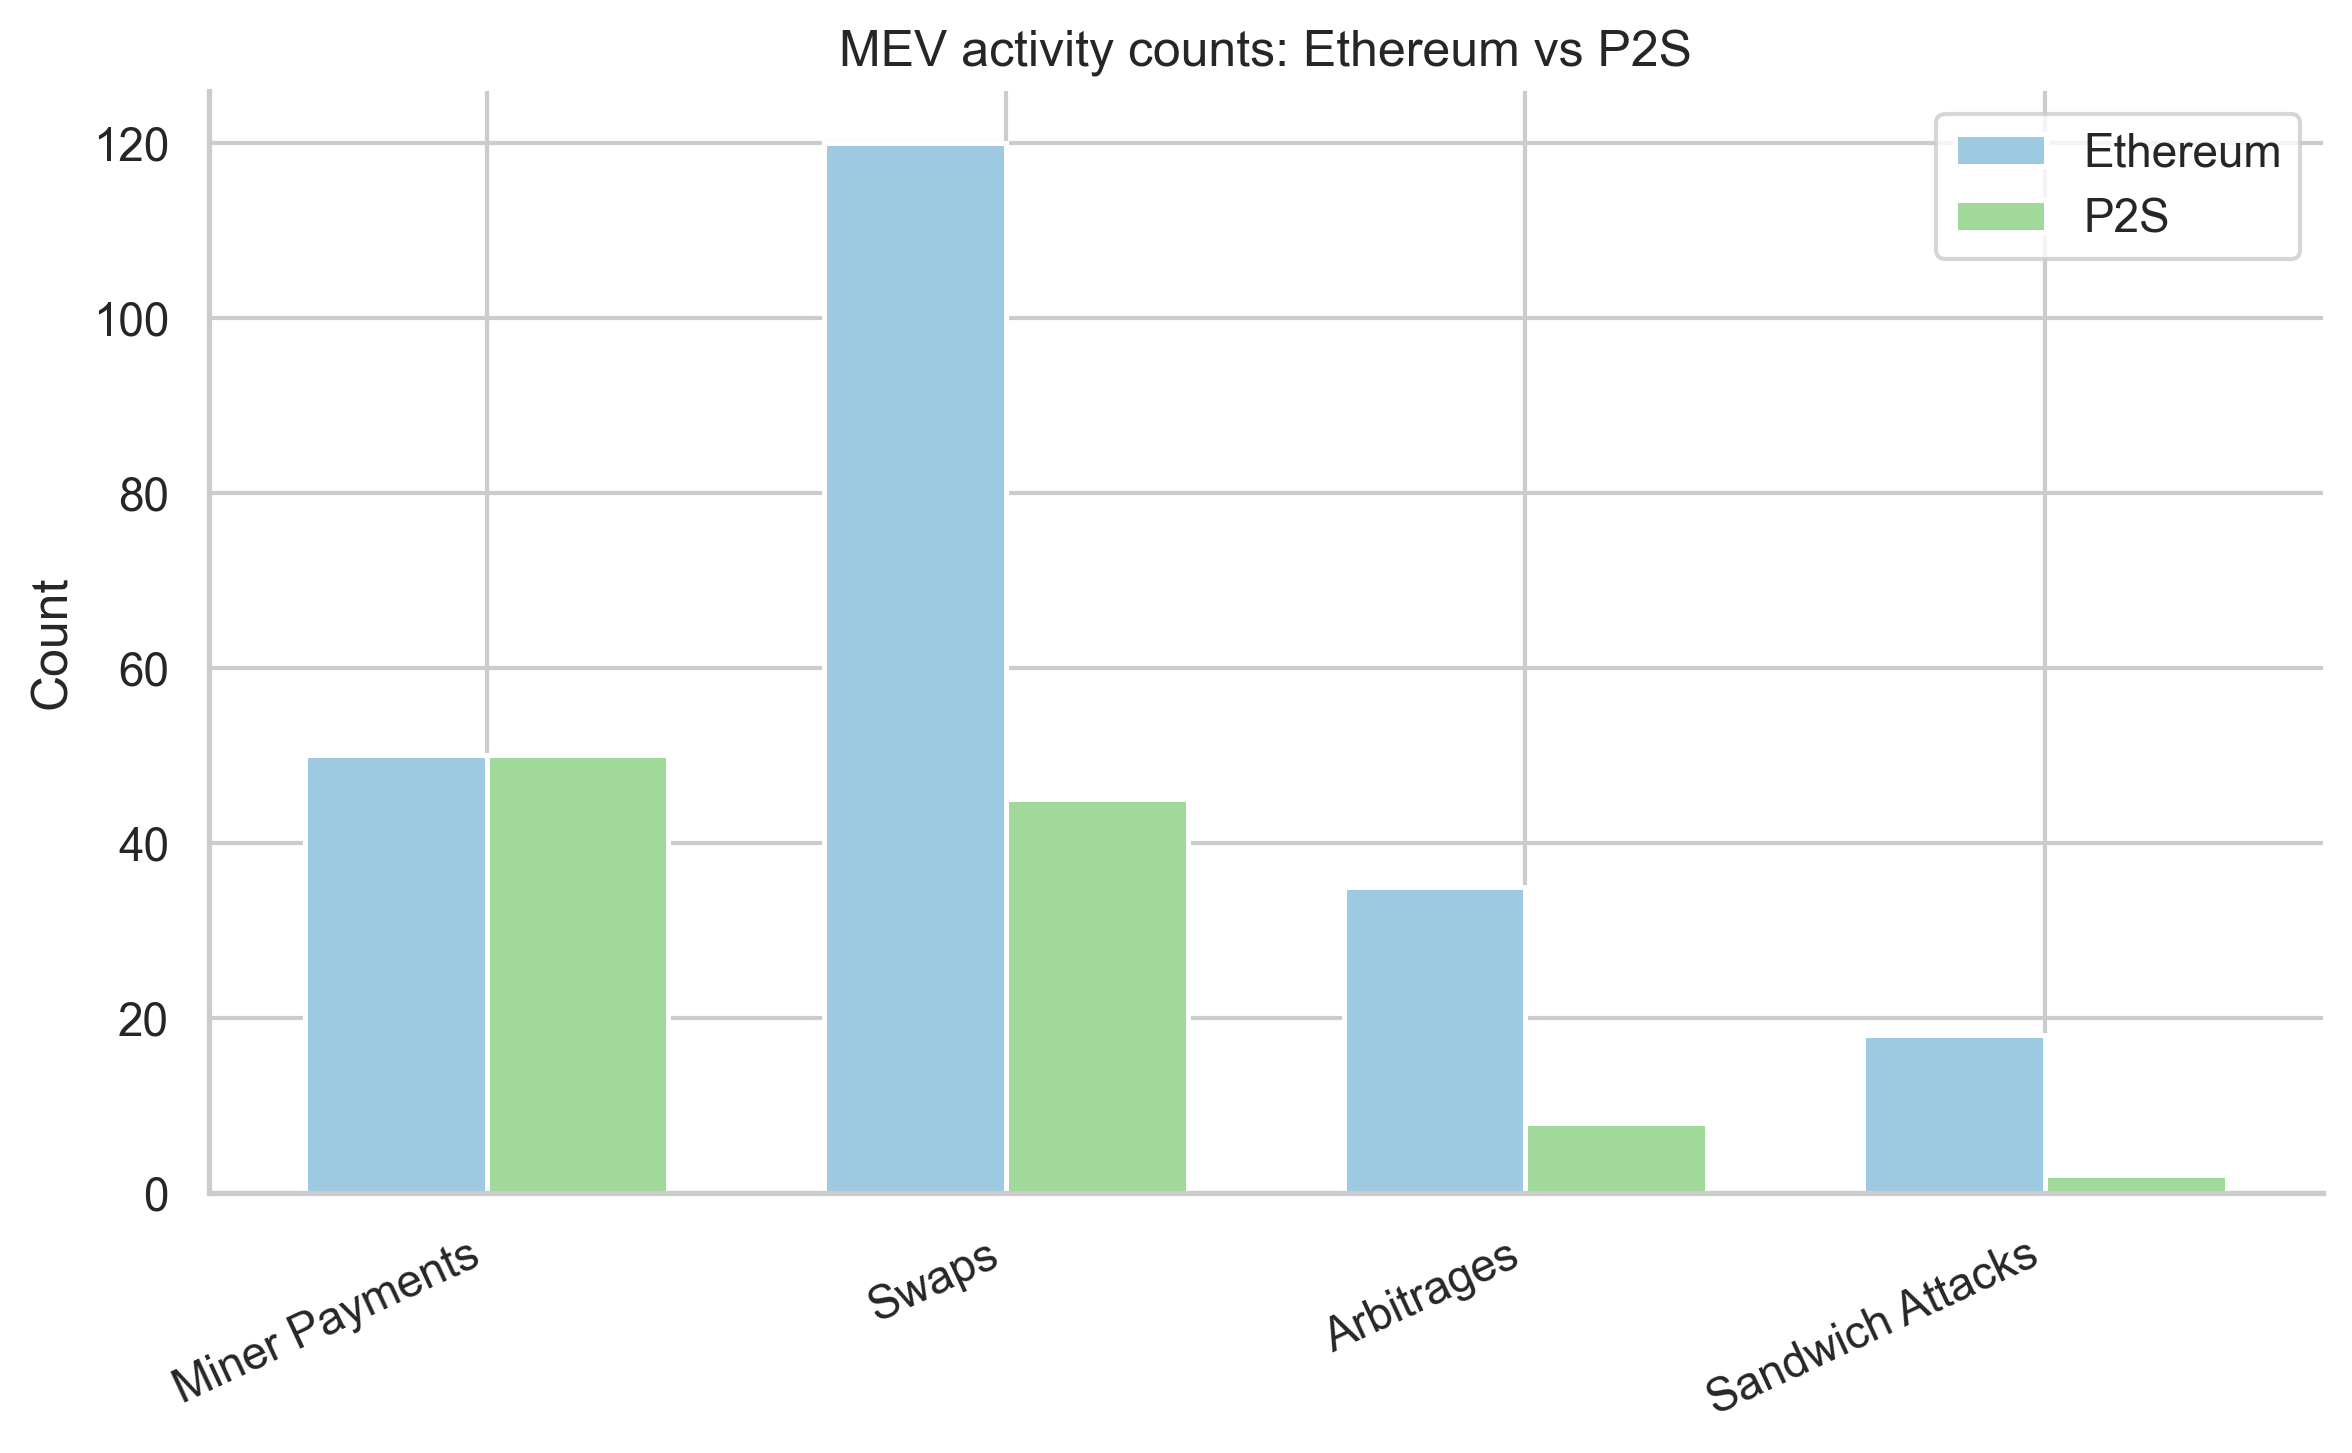
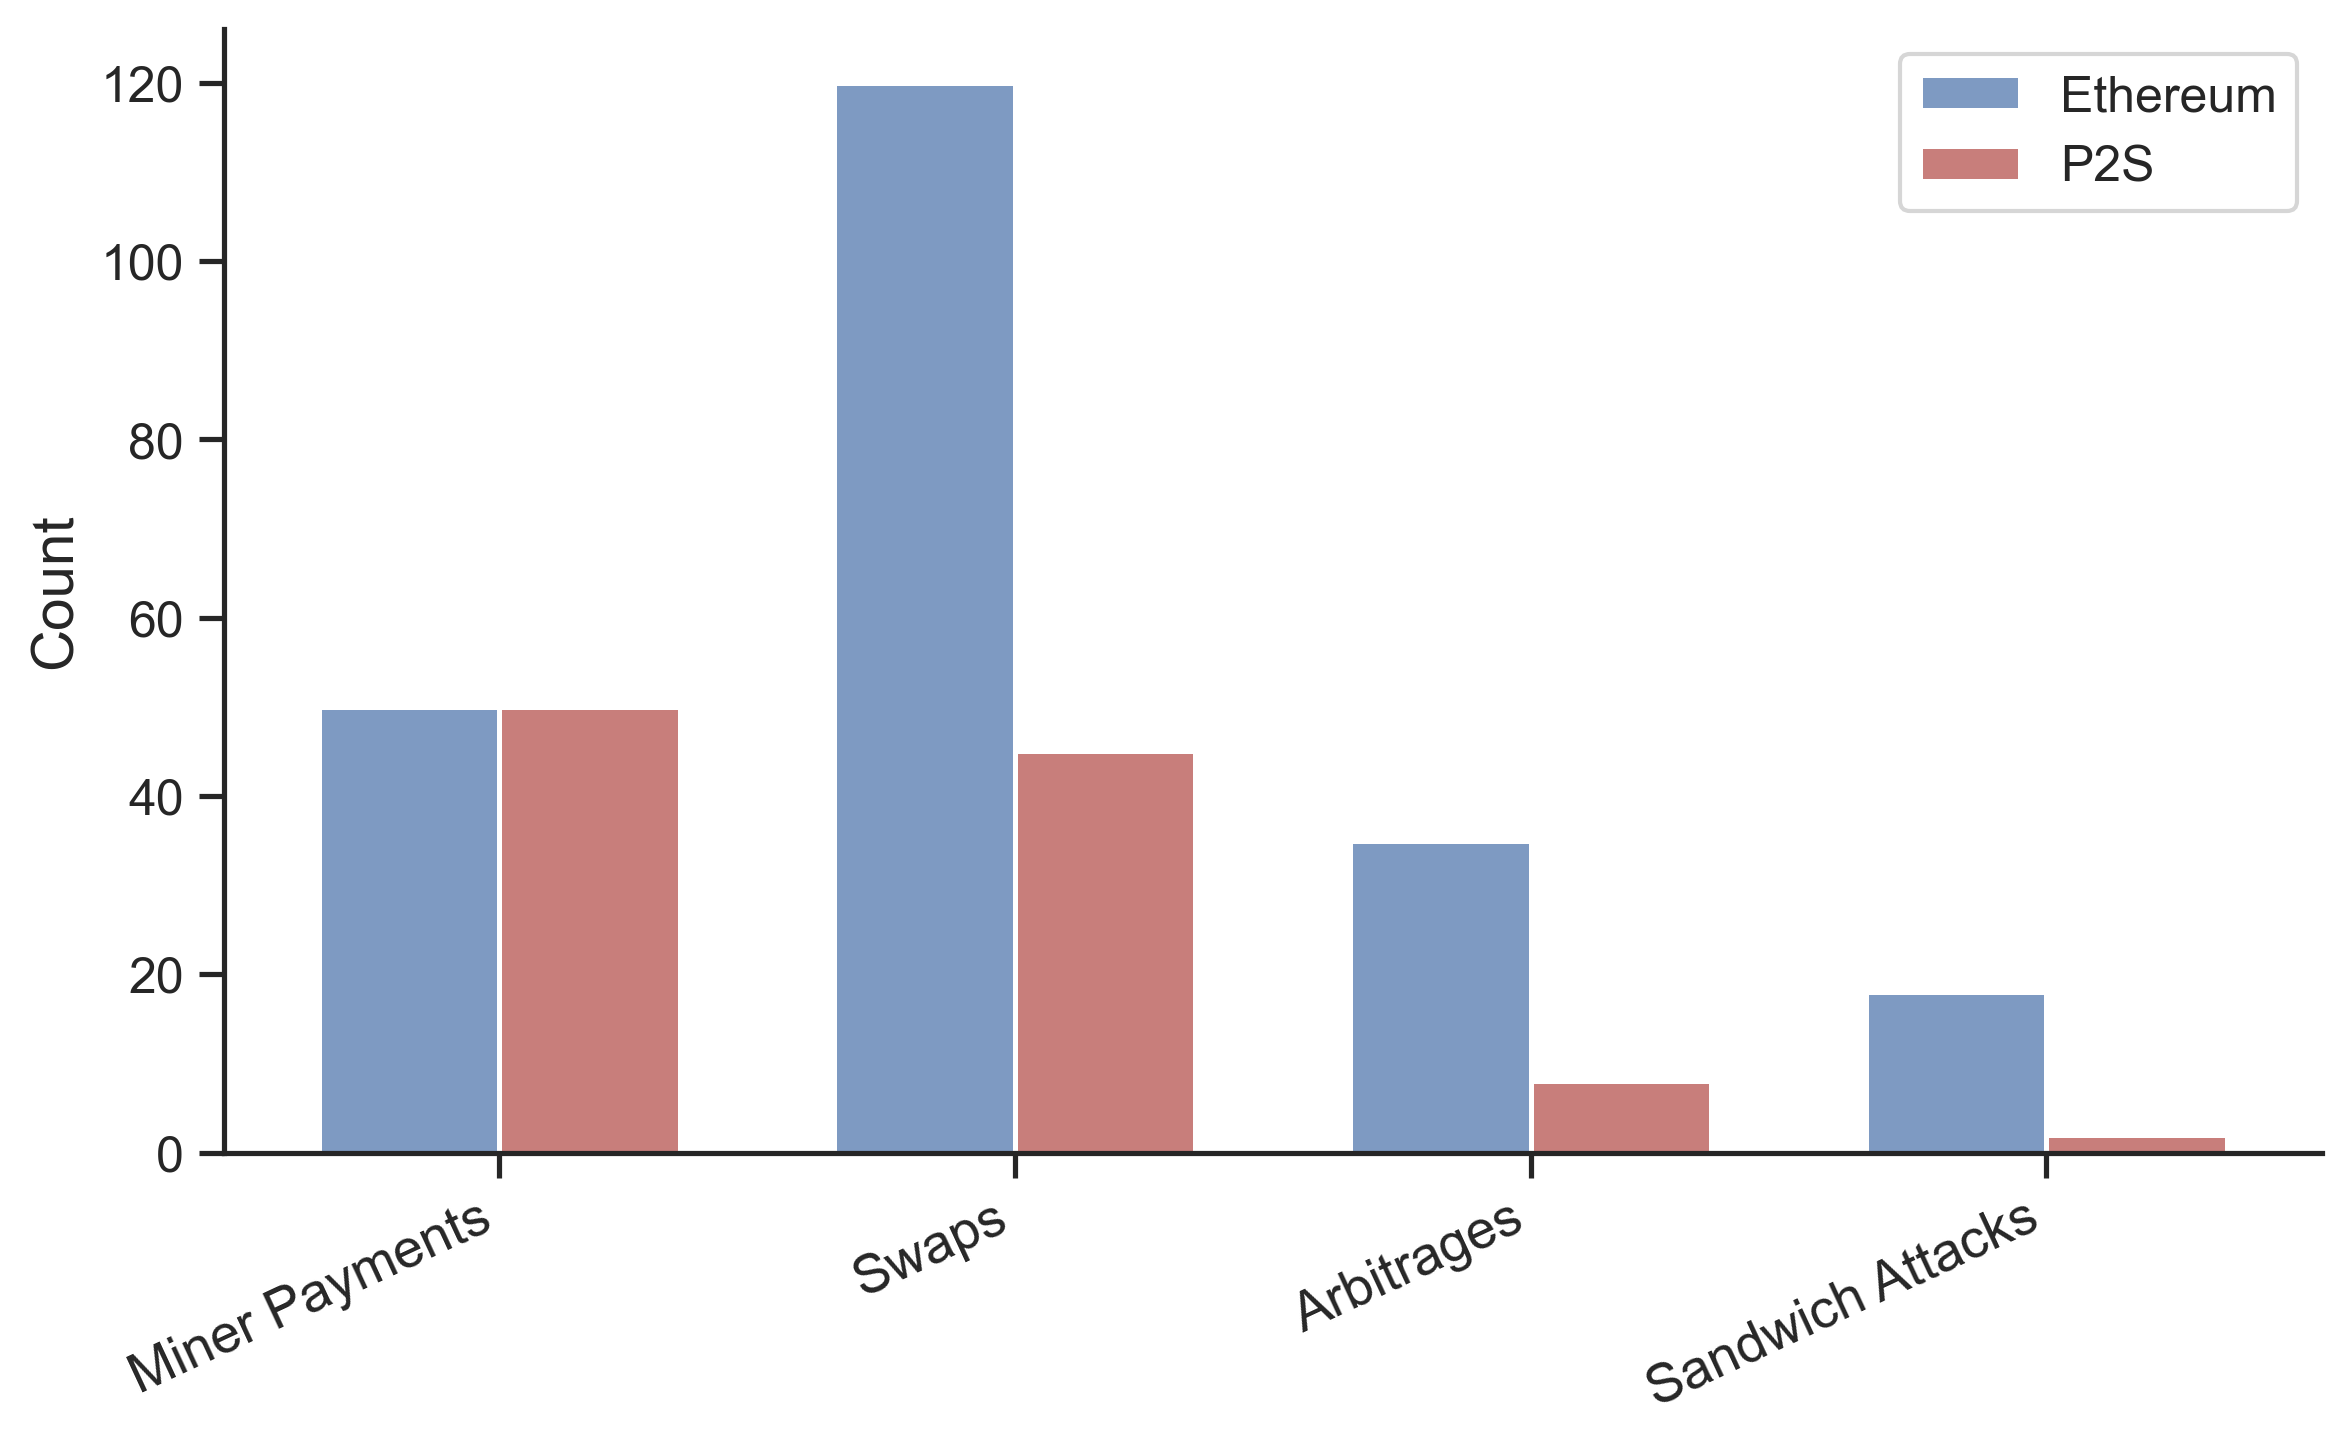
plot improve

diff --git a/plots/plot_mev_comparison.py b/plots/plot_mev_comparison.py
@@ -16,11 +16,10 @@ import seaborn as sns
 DATA_DIR = "data"
 FIGURES_DIR = "figures"
 
-# Pastel palette: Ethereum = soft blue, P2S = soft green
-PASTEL_ETH = "#9ECAE1"
-PASTEL_P2S = "#A1D99B"
-PASTEL_REDUCTION = "#C7E9C0"
-PASTEL_NEUTRAL = "#D9D9D9"
+# Colors from seaborn vlag palette (diverging blue to red)
+VLAG_PALETTE = sns.color_palette("vlag", n_colors=10)
+COLOR_BLUE = VLAG_PALETTE[1]   # Ethereum (blue end)
+COLOR_RED = VLAG_PALETTE[-2]   # P2S (red end)
 
 # Default paths: use one comparison file (generated once from inspect + compare)
 def _find_latest(path_pattern: str):
@@ -43,44 +42,59 @@ def load_comparison(data_dir: str = DATA_DIR):
     return None
 
 
-def plot_mev_summary(comparison_data: dict, out_path: str) -> None:
-    """Single figure: Total MEV by type (Eth vs P2S) and reduction %."""
+def plot_mev_totals(comparison_data: dict, out_path: str) -> None:
+    """Bar chart: Total MEV by type (Eth vs P2S)."""
     mev_by_type = comparison_data.get("mev_by_type", {})
     if not mev_by_type:
         return
 
-    sns.set_theme(style="whitegrid", palette="pastel")
+    sns.set_theme(style="ticks")
     types = []
     eth_totals = []
     p2s_totals = []
-    reductions = []
     for mev_type, stats in mev_by_type.items():
         types.append(mev_type.replace("_", " ").title())
         eth_totals.append(stats["ethereum"]["total"])
         p2s_totals.append(stats["p2s"]["total"])
-        reductions.append(stats["reduction"]["total_pct"])
 
-    fig, (ax1, ax2) = plt.subplots(1, 2, figsize=(10, 5))
-
+    fig, ax = plt.subplots(figsize=(8, 5))
     x = np.arange(len(types))
     w = 0.35
-    ax1.bar(x - w / 2, eth_totals, w, label="Ethereum", color=PASTEL_ETH, edgecolor="white", linewidth=1.2)
-    ax1.bar(x + w / 2, p2s_totals, w, label="P2S", color=PASTEL_P2S, edgecolor="white", linewidth=1.2)
-    ax1.set_ylabel("Total MEV (ETH)")
-    ax1.set_title("MEV by type")
-    ax1.set_xticks(x)
-    ax1.set_xticklabels(types, rotation=25, ha="right")
-    ax1.legend()
-    sns.despine(ax=ax1, left=False, bottom=False)
+    ax.bar(x - w / 2, eth_totals, w, label="Ethereum", color=COLOR_BLUE, edgecolor="white", linewidth=1.2)
+    ax.bar(x + w / 2, p2s_totals, w, label="P2S", color=COLOR_RED, edgecolor="white", linewidth=1.2)
+    ax.set_ylabel("Total MEV (ETH)", fontsize=14)
+    ax.set_xticks(x)
+    ax.set_xticklabels(types, rotation=25, ha="right", fontsize=13)
+    ax.tick_params(axis='y', labelsize=12)
+    ax.legend(fontsize=12)
+    sns.despine(ax=ax)
+    plt.tight_layout()
+    os.makedirs(FIGURES_DIR, exist_ok=True)
+    plt.savefig(out_path, dpi=300, bbox_inches="tight")
+    plt.close()
+    print(f"Saved {out_path}")
 
-    reduction_colors = [PASTEL_REDUCTION if r > 0 else PASTEL_NEUTRAL for r in reductions]
-    ax2.barh(types, reductions, color=reduction_colors, edgecolor="white", linewidth=1.2)
-    ax2.set_xlabel("Reduction (%)")
-    ax2.set_title("P2S MEV reduction vs Ethereum")
-    ax2.axvline(0, color="gray", linewidth=0.8, linestyle="--")
-    sns.despine(ax=ax2, left=False, bottom=False)
 
-    fig.suptitle("MEV comparison: Ethereum vs P2S", fontsize=14, fontweight="bold", y=1.02)
+def plot_mev_reduction(comparison_data: dict, out_path: str) -> None:
+    """Horizontal bar chart: P2S MEV reduction % vs Ethereum by type."""
+    mev_by_type = comparison_data.get("mev_by_type", {})
+    if not mev_by_type:
+        return
+
+    sns.set_theme(style="ticks")
+    types = []
+    reductions = []
+    for mev_type, stats in mev_by_type.items():
+        types.append(mev_type.replace("_", " ").title())
+        reductions.append(stats["reduction"]["total_pct"])
+
+    fig, ax = plt.subplots(figsize=(8, 5))
+    colors = [COLOR_RED if r > 0 else COLOR_BLUE for r in reductions]
+    ax.barh(types, reductions, color=colors, edgecolor="white", linewidth=1.2)
+    ax.set_xlabel("Reduction (%)", fontsize=14)
+    ax.axvline(0, color="gray", linewidth=0.8, linestyle="--")
+    ax.tick_params(axis='both', labelsize=12)
+    sns.despine(ax=ax)
     plt.tight_layout()
     os.makedirs(FIGURES_DIR, exist_ok=True)
     plt.savefig(out_path, dpi=300, bbox_inches="tight")
@@ -90,7 +104,7 @@ def plot_mev_summary(comparison_data: dict, out_path: str) -> None:
 
 def plot_activities_count(comparison_data: dict, out_path: str) -> None:
     """Bar chart: activity counts (miner payments, swaps, arbitrages, sandwich) Eth vs P2S."""
-    sns.set_theme(style="whitegrid", palette="pastel")
+    sns.set_theme(style="ticks")
     comp = comparison_data.get("comparison", {})
     eth = comp.get("ethereum", {})
     p2s = comp.get("p2s", {})
@@ -103,14 +117,14 @@ def plot_activities_count(comparison_data: dict, out_path: str) -> None:
     fig, ax = plt.subplots(figsize=(8, 5))
     x = np.arange(len(labels))
     w = 0.35
-    ax.bar(x - w / 2, eth_vals, w, label="Ethereum", color=PASTEL_ETH, edgecolor="white", linewidth=1.2)
-    ax.bar(x + w / 2, p2s_vals, w, label="P2S", color=PASTEL_P2S, edgecolor="white", linewidth=1.2)
-    ax.set_ylabel("Count")
-    ax.set_title("MEV activity counts: Ethereum vs P2S")
+    ax.bar(x - w / 2, eth_vals, w, label="Ethereum", color=COLOR_BLUE, edgecolor="white", linewidth=1.2)
+    ax.bar(x + w / 2, p2s_vals, w, label="P2S", color=COLOR_RED, edgecolor="white", linewidth=1.2)
+    ax.set_ylabel("Count", fontsize=14)
     ax.set_xticks(x)
-    ax.set_xticklabels(labels, rotation=25, ha="right")
-    ax.legend()
-    sns.despine(ax=ax, left=False, bottom=False)
+    ax.set_xticklabels(labels, rotation=25, ha="right", fontsize=13)
+    ax.tick_params(axis='y', labelsize=12)
+    ax.legend(fontsize=12)
+    sns.despine(ax=ax)
     plt.tight_layout()
     os.makedirs(FIGURES_DIR, exist_ok=True)
     plt.savefig(out_path, dpi=300, bbox_inches="tight")
@@ -129,7 +143,8 @@ def main():
         print("No MEV comparison data found. Put data/mev_comparison.json (or mev_comparison_*.json) in project root.", file=sys.stderr)
         sys.exit(1)
 
-    plot_mev_summary(data, os.path.join(figures_dir, "mev_by_type.png"))
+    plot_mev_totals(data, os.path.join(figures_dir, "mev_totals_by_type.png"))
+    plot_mev_reduction(data, os.path.join(figures_dir, "mev_by_type.png"))
     plot_activities_count(data, os.path.join(figures_dir, "mev_activities_count.png"))
     print("Done. Figures in", figures_dir)
 
